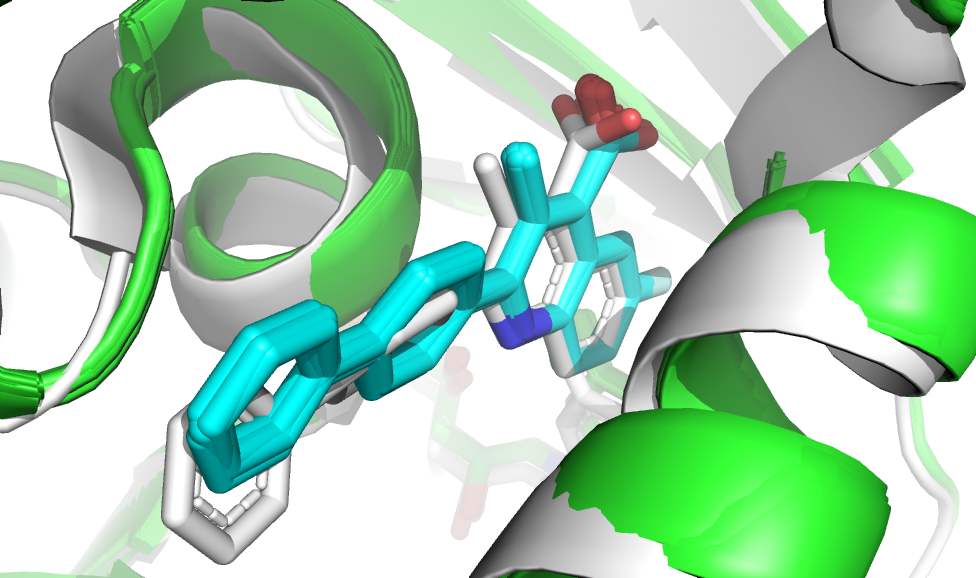
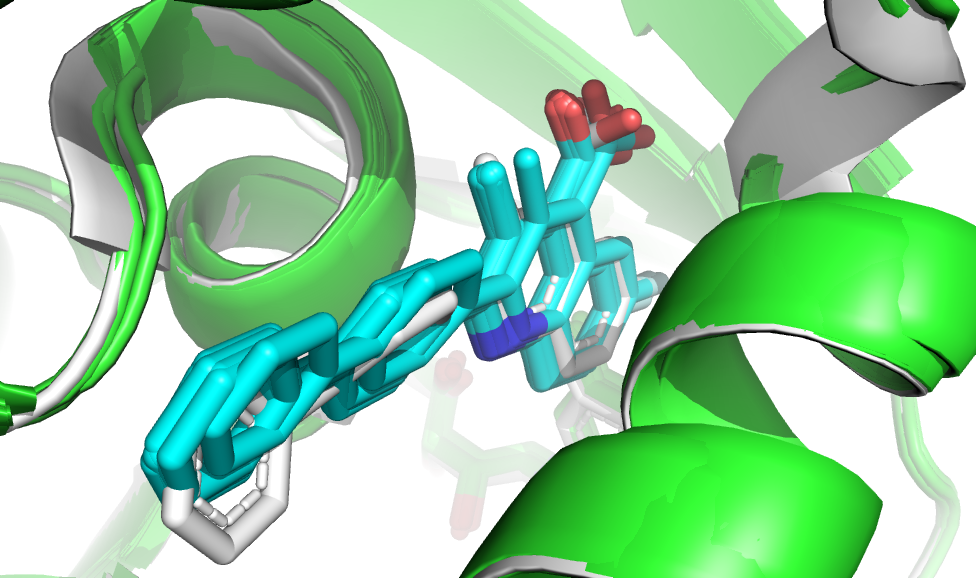
Added binding site fitting in PyMol

diff --git a/education/HADDOCK24/shape-small-molecule/index.md b/education/HADDOCK24/shape-small-molecule/index.md
@@ -620,8 +620,15 @@ If installed in your system you can use the provided `data/izone` Profit script 
 
 `obrms` reports a ligand RMSD value of 0.74 indicating excellent agreement between model and reference structures.
 
-If you don't have Profit installed you can use instead PyMol to write the aligned model. Assuming you still have PyMol open and have performed the above commands, 
-from the PyMOL menu select:
+If you don't have Profit installed you can use instead PyMol to fit the models on the binding site residues:
+Assuming you still have PyMol open and have performed the above commands, do the following to fit the top model (cluster1) onto the binding site of the target:
+
+<a class="prompt prompt-pymol">
+  select binding_site, resi 38+42+43+46+47+50+51+52+55+56+59+62+63+67+68+98+111+134+136+143+356+359+360+363+364 <br>
+  align cluster1_1 and backbone and binding_site, 1d3g and backbone and binding_site, cycles=0 <br>
+</a>
+
+Then save the aligned cluster1_1 by selecting from the PyMOL menu:
 
 <a class="prompt prompt-info">File -> Export molecule...</a>
 <a class="prompt prompt-info">Selection -> cluster1_1</a>
